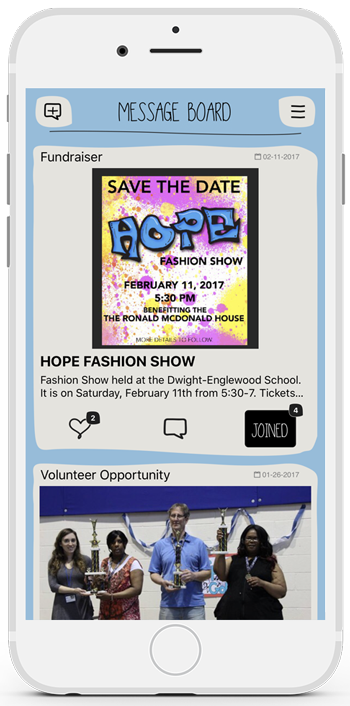
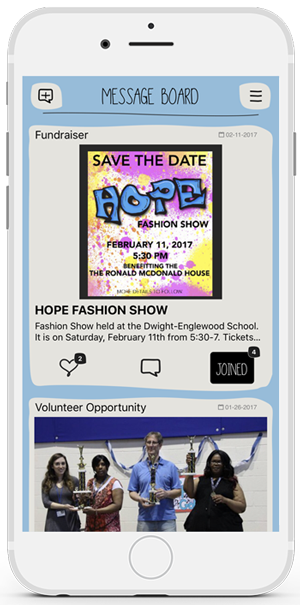
small changes after call

diff --git a/index.html b/index.html
@@ -19,6 +19,7 @@
     <link href="css/variables.css" rel="stylesheet">
 
     <!-- Google Fonts -->
+    <link href="https://fonts.googleapis.com/css?family=Open+Sans:300" rel="stylesheet">
     <link rel="stylesheet" href="https://maxcdn.bootstrapcdn.com/font-awesome/4.6.3/css/font-awesome.min.css">
 
   </head>
@@ -42,12 +43,11 @@
         </a>
       </div>
       <div class="flex-3"></div>
-      <div class="menu flex flex-7 center">
-        <!-- <a href="#about" class="main">About</a> -->
-        <a href="#school" class="main">Schools</a>
+      <div class="menu flex flex-7 center" style="margin-bottom: 0;">
         <a href="#parents" class="main">Parents</a>
         <a href="#nonprofits" class="main">Non Profits</a>
-        <!-- <a href="#join" class="main">Join</a> -->
+        <a href="#school" class="main">Schools</a>
+        <a href="#about" class="main">About</a>
         <!-- <a href="#how" class="main">How It Works</a> -->
         <a href="#contact" class="main">Contact</a>
       </div>
@@ -69,7 +69,7 @@
         </div>
       </div>
       <div class="flex-5">
-        <img style="width: 350px;" src="img/message_board.png">
+        <img src="img/message_board.png">
       </div>
     </div>
     <div class="flex bottom center hidden-mobile">
@@ -78,18 +78,18 @@
   </div>  
 <!-- End Hero Section -->
 
-  <div style="background: #352f44; max-height: 750px;">
+  <div style=" max-height: 750px;">
     <section id="parents">
       <div class="flex">
         <div class="flex-5">
           <img src="img/time_tracker.png">
         </div>
-        <div class="flex-5 center">
-          <h2 style="text-align: center; color: #fff; font-weight: bold;">PARENTS</h2>
+        <div class="flex-5 center black-box">
+          <h2 style="text-align: center; font-weight: bold;">PARENTS</h2>
           <br>
-          <p style="text-align: center; color: #fff;">Givety’s centralized listing of nonprofit organizations and volunteer opportunities will help your child make a difference. And getting credit for their volunteer work is easy – they can self-check-in electronically at your volunteer location when they arrive and check out when they’re done. No more paper forms or getting signatures on time-sheets.</p>
+          <p style="text-align: center;">Givety’s centralized listing of nonprofit organizations and volunteer opportunities will help your child make a difference. And getting credit for their volunteer work is easy – they can self-check-in electronically at your volunteer location when they arrive and check out when they’re done. No more paper forms or getting signatures on time-sheets.</p>
           <br>
-          <p style="text-align: center; color: #fff;">By emphasizing the social aspects of volunteering and bringing varied and diverse opportunities in which to do so, Givety will motivate students to get involved!</p>
+          <p style="text-align: center;">By emphasizing the social aspects of volunteering and bringing varied and diverse opportunities in which to do so, Givety will motivate students to get involved!</p>
         </div>
       </div>
     </section>
@@ -98,7 +98,7 @@
   <div style="background: var(--main); max-height: 750px;">
     <section id="nonprofits">
       <div class="flex">
-        <div class="flex-5 center">
+        <div class="flex-5 center box">
           <h2 style="text-align: center; color: #fff; font-weight: bold;">NON PROFITS</h2>
           <br>
           <p style="text-align: center; color: #fff;">Givety’s community of next-generation givers helps you access a new pool of enthusiastic volunteers and increases your outreach.</p>
@@ -114,18 +114,37 @@
     </section>
   </div>
 
-  <div style="background: #352f44; max-height: 750px;">
+  <div style="max-height: 750px;">
     <section id="school">
       <div class="flex">
         <div class="flex-5">
           <img src="img/schools.png">
         </div>
+        <div class="flex-5 center black-box">
+          <h2 style="text-align: center; font-weight: bold;">SCHOOLS</h2>
+          <br>
+          <p style="text-align: center;">Our tools streamline the process of tracking student volunteering by eliminating printed forms. Leveraging mobile technology, your institution will be able to build an accurate electronic database of time spent by students at nonprofits, reducing your workload and providing better data for college and other applications.</p>
+          <br>
+          <p style="text-align: center;">By emphasizing the social aspects of volunteering and bringing varied and diverse opportunities in which to do so, Givety will motivate students to get involved.</p>
+        </div>
+      </div>
+    </section>
+  </div>
+
+  <div style="background: var(--main); max-height: 750px;">
+    <section id="about">
+      <div class="flex">
         <div class="flex-5 center">
-          <h2 style="text-align: center; color: #fff; font-weight: bold;">SCHOOLS</h2>
+          <h2 style="text-align: center; color: #fff; font-weight: bold;">ABOUT</h2>
           <br>
-          <p style="text-align: center; color: #fff;">Our tools streamline the process of tracking student volunteering by eliminating printed forms. Leveraging mobile technology, your institution will be able to build an accurate electronic database of time spent by students at nonprofits, reducing your workload and providing better data for college and other applications.</p>
+          <p style="text-align: center; color: #fff;">I’m Tracey Schuster and I’m the founder of Givety.</p>
           <br>
-          <p style="text-align: center; color: #fff;">By emphasizing the social aspects of volunteering and bringing varied and diverse opportunities in which to do so, Givety will motivate students to get involved.</p>
+          <p style="text-align: center; color: #fff;"> My goal for givety is to leverage mobile technologies and the internet to foster the volunteering spirit in students. I want to help kids become Responsible citizens and change the face of community service to meet the needs of teen today.</p>
+          <br>
+          <p style="text-align: center; color: #fff;">If we engage kids at a younger age with a mobile social platform, volunteering can become another social activity instead of a chore.</p>
+        </div>
+        <div class="flex-5">
+          <img src="img/tracey.jpg">
         </div>
       </div>
     </section>
@@ -175,10 +194,24 @@
 <!-- Form End -->
 
   <footer>
-    <div class="flex">
-      <div class="center">
-        <p style="text-align: center;">GIVETY <br> All Rights Reserved 2017</p>
-      </div>
+    <div class="flex center full" style="max-width: 300px;">
+      <!-- <a href="mailto::tracey@givety.com" target="_blank">
+         <i class="fa fa-envelope fa-2x zoom" style="padding: 15px;" aria-hidden="true"></i>
+      </a> -->
+      <a href="https://www.facebook.com/givety.usa/" target="_blank">
+        <i class="fa fa-facebook fa-2x zoom" style="padding: 15px;" aria-hidden="true"></i>
+      </a>
+      <a href="https://www.instagram.com/givetyusa/" target="_blank">
+        <i class="fa fa-instagram fa-2x zoom" style="padding: 15px;" aria-hidden="true"></i>
+      </a>
+      <a href="https://twitter.com/givetyusa" target="_blank">
+        <i class="fa fa-twitter fa-2x zoom" style="padding: 15px;" aria-hidden="true"></i>
+      </a>      
+    </div>
+    <div class="flex center">
+      <p class="full">GIVETY</p>
+      <p class="full">© 2017 All Rights Reserved</p>
+        <!-- <p><a href="/feed.xml">subscribe via RSS</a></p> -->
     </div>
   </footer>
 

diff --git a/css/font-sizes.css b/css/font-sizes.css
@@ -38,7 +38,7 @@ h6 {
 	line-height: 1.5rem;
 }
 p,a,label{
-	font-size: 1.5rem;
+	font-size: 1rem;
 	letter-spacing: -0.01rem;
 	line-height: 1.5rem;
 }
@@ -80,7 +80,7 @@ p,a,label{
 		line-height: 1.5rem;
 	}
 	p, a, label {
-		font-size: 1.5rem;
+		font-size: 1rem;
 		letter-spacing: -0.01rem;
 		line-height: 1.5rem;
 	}
@@ -123,7 +123,7 @@ p,a,label{
 		line-height: 1.5rem;
 	}
 	p, a, label {
-		font-size: 1.5rem;
+		font-size: 1rem;
 		letter-spacing: -0.01rem;
 		line-height: 1.5rem;
 	}

diff --git a/css/style.css b/css/style.css
@@ -24,6 +24,10 @@ h1, h2, h3, h4, h5, h6, p {
 	font-weight: 100;
 }
 
+p {
+	font-family: 'Open Sans', sans-serif;
+}
+
 section {
 	max-width: 960px;
 	margin: auto;
@@ -72,6 +76,19 @@ iframe {
     width: 300px;
 }
 
+.full {
+	width: 100%;
+	text-align: center;
+}
+.box {
+	    padding: 25px;
+    border: 1px solid #fff;
+}
+
+.black-box {
+		    padding: 25px;
+    border: 1px solid #222;
+}
 .highlight {
   background-color: #f7f7f9;
   border: 1px solid #e1e1e8;

diff --git a/css/nav.css b/css/nav.css
@@ -27,6 +27,7 @@
 
 .main {
   cursor: default;
+  font-size: 1.5rem;
 }
 
 .sub {
